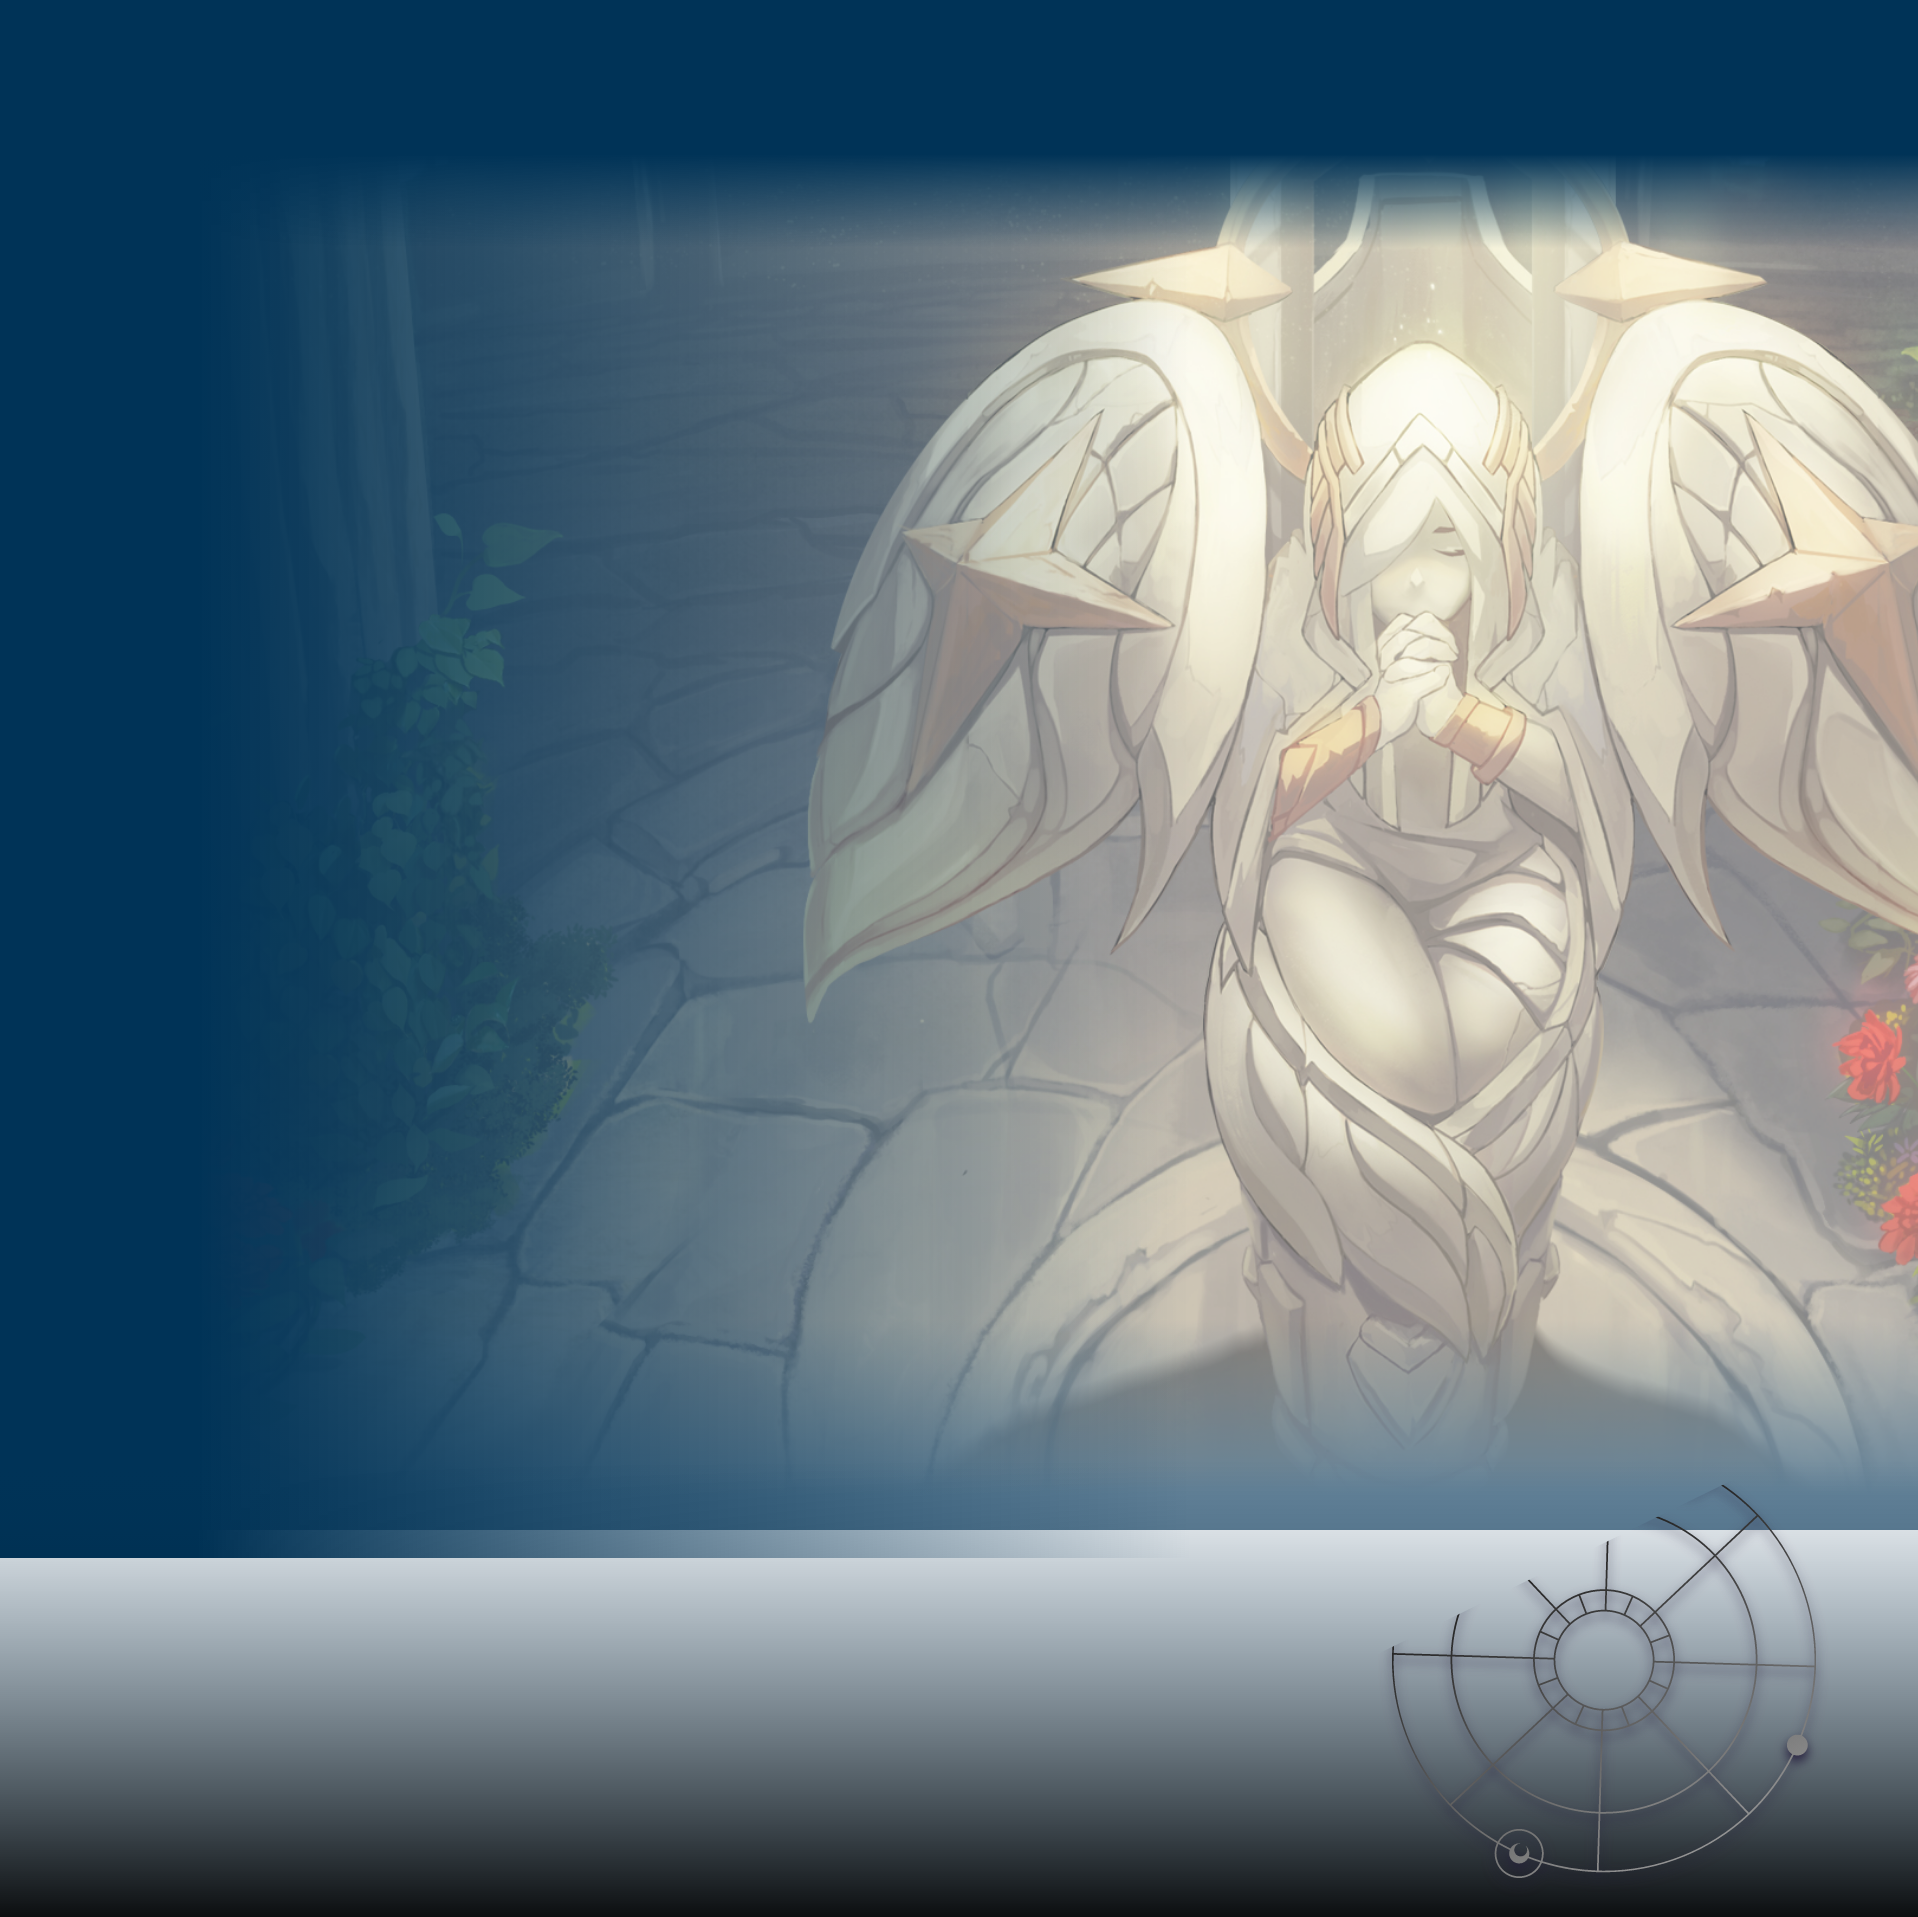
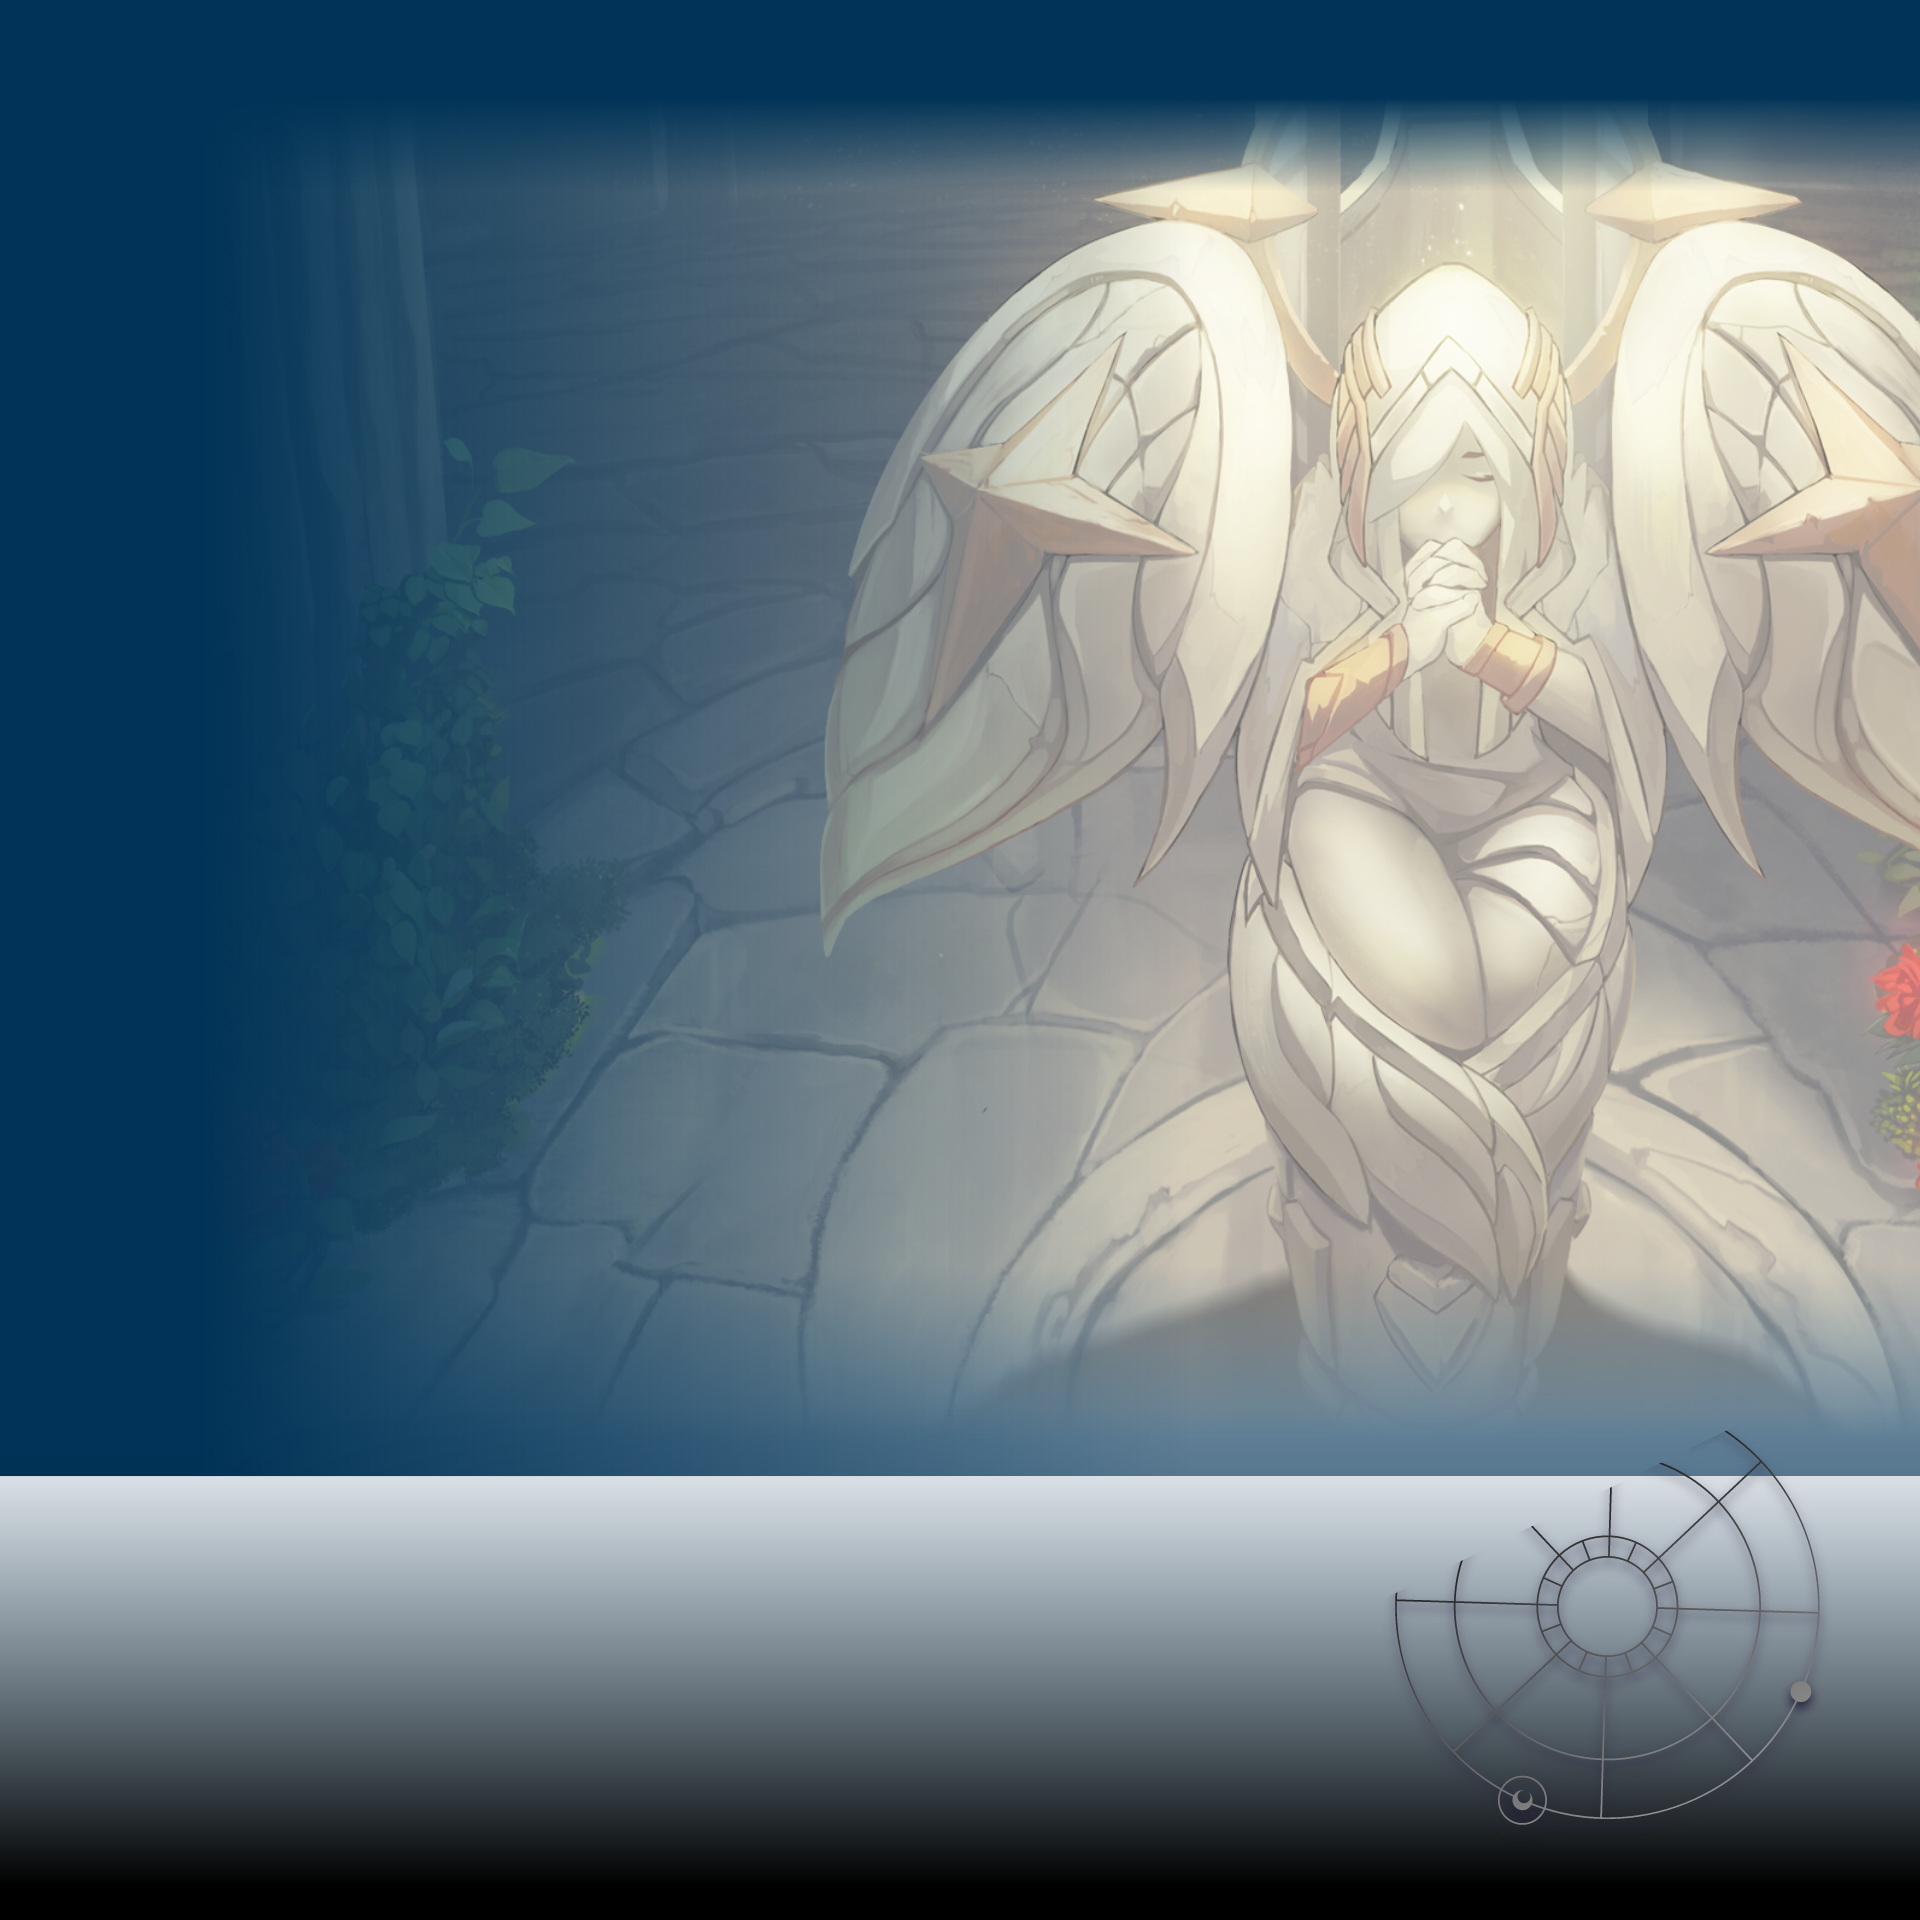
update assets

diff --git a/styles/style.css b/styles/style.css
@@ -281,16 +281,16 @@ img{
     background-position: center;
 }
 
-@media screen and (max-width: 675px) {
+@media screen and (max-width: 768px) {
     .pre-register-info-wrapper{
         background-size: cover;
         background-position: center;
     }
     
 }
-@media screen and (min-width: 675px) {
+@media screen and (min-width: 768px) {
     .pre-register-info-wrapper{
-        background-size: 100vw 100%;
+        background-size: 100% 100%;
         background-position: center right;
     }  
 }

diff --git a/pages/pre-register.js b/pages/pre-register.js
@@ -197,7 +197,7 @@ export default function PreRegister() {
           </div>
         </div>
 
-        <div className="w-full">
+        <div className="w-full pb-12">
           <div className="address-token-card flex-col md:flex-row">
             <div className="z-10">
               <img src="/assets/images/VN_Mamon 1.png" />
